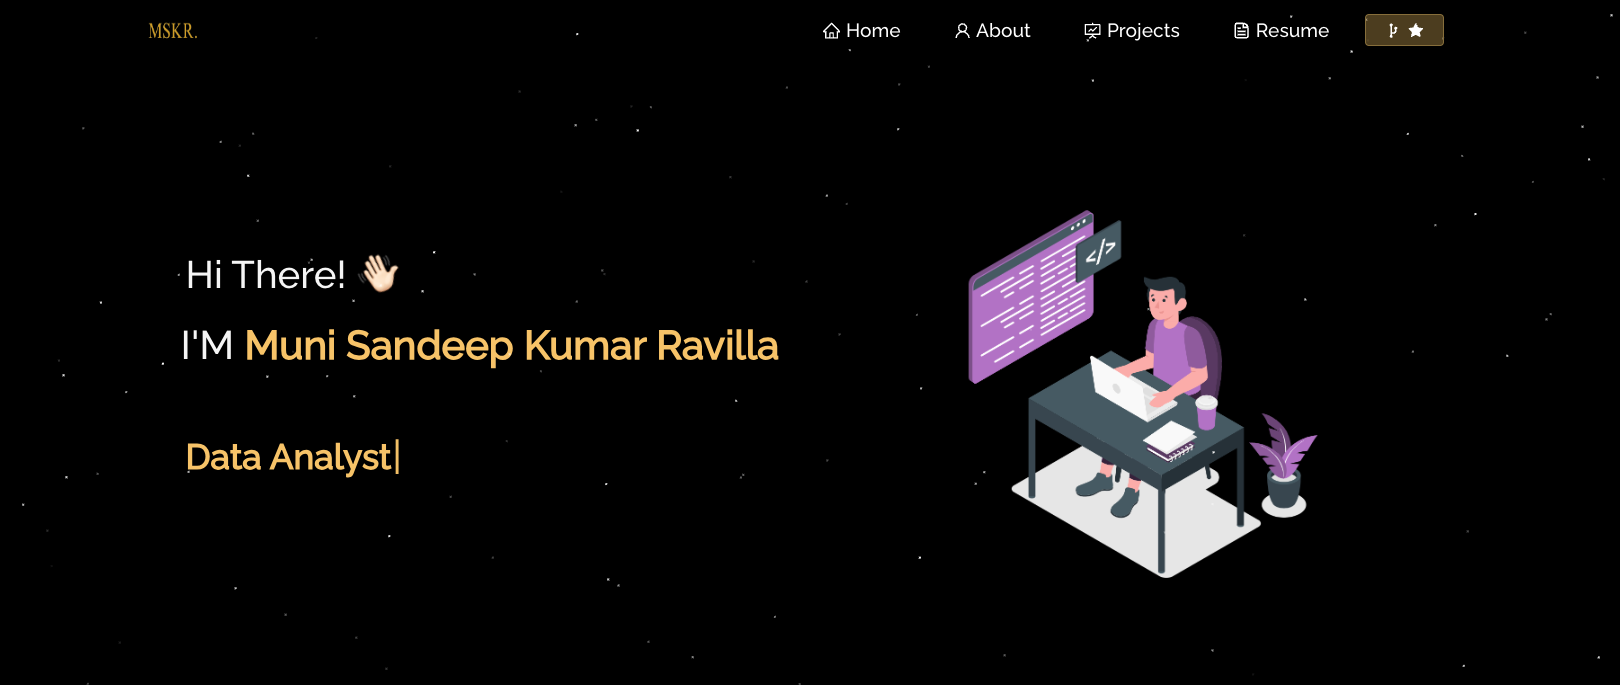
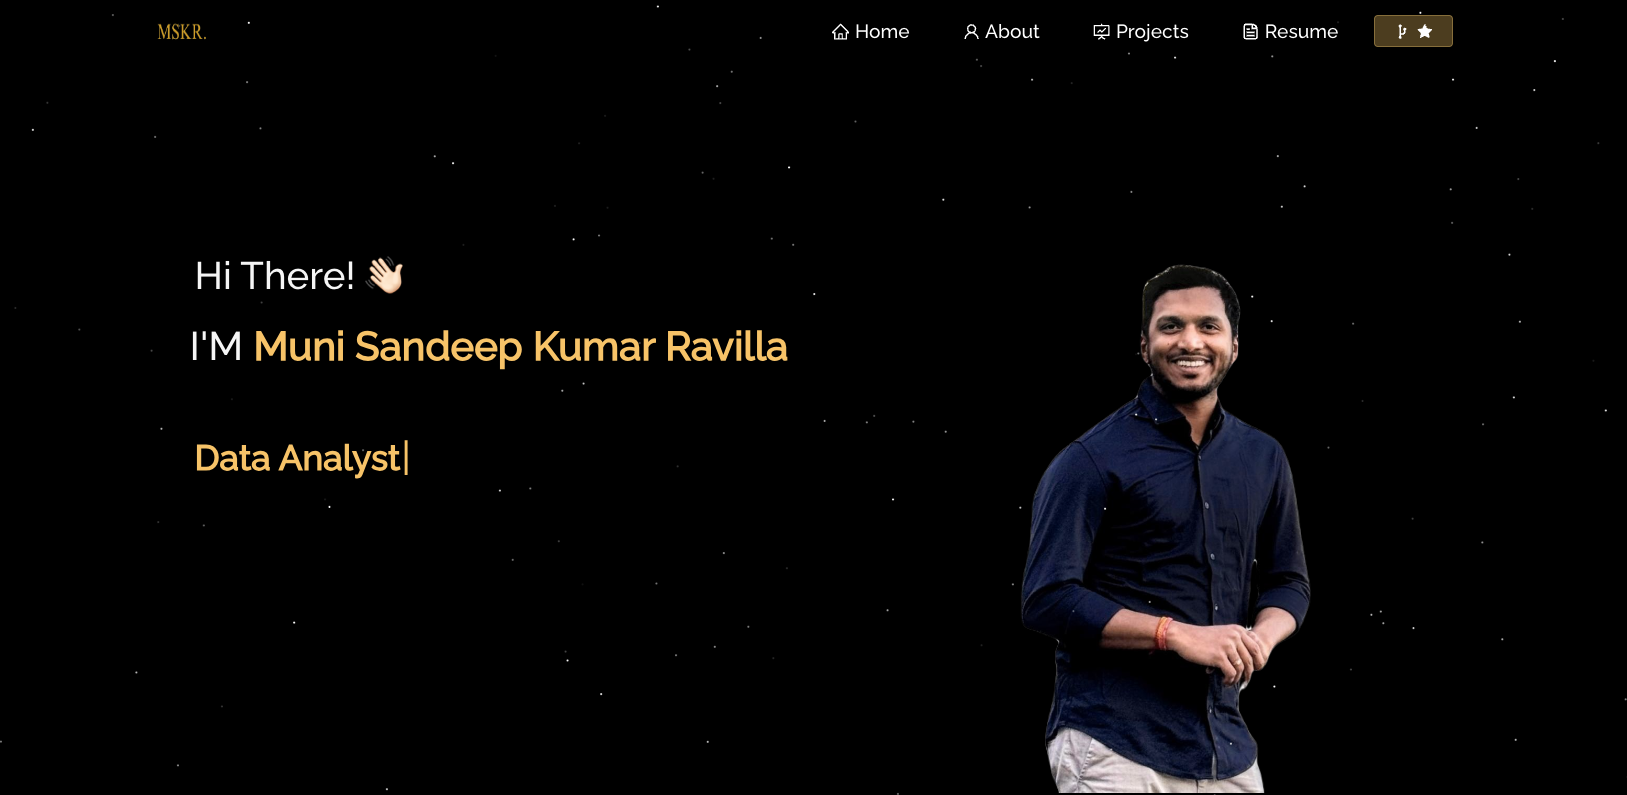
Photo changes

diff --git a/src/components/Home/Home.js b/src/components/Home/Home.js
@@ -1,7 +1,7 @@
 import React from "react";
 import { Container, Row, Col } from "react-bootstrap";
-import homeLogo from "../../Assets/home-main.svg";
-// import homeLogo from "../../Assets/Sandeep.png";
+// import homeLogo from "../../Assets/home-main.svg";
+import homeLogo from "../../Assets/Profile.png";
 import Particle from "../Particle";
 import Home2 from "./Home2";
 import Type from "./Type";
@@ -38,7 +38,7 @@ function Home() {
                 src={homeLogo}
                 alt="home pic"
                 className="img-fluid"
-                style={{ maxHeight: "450px" }}
+                style={{ maxHeight: "1000px",  marginTop: -50  }}
               />
             </Col>
 

diff --git a/src/components/About/About.js b/src/components/About/About.js
@@ -5,7 +5,7 @@ import Particle from "../Particle";
 import Techstack from "./Techstack";
 import Aboutcard from "./AboutCard";
 import laptopImg from "../../Assets/about.png";
-import Toolstack from "./Toolstack";
+// import Toolstack from "./Toolstack";
 
 function About() {
   return (
@@ -43,7 +43,7 @@ function About() {
         <h1 className="project-heading">
           <strong className="purple">Tools</strong> I use
         </h1>
-        <Toolstack />
+        {/* <Toolstack /> */}
 
         {/* <Github /> */}
       </Container>

diff --git a/public/index.html b/public/index.html
@@ -18,7 +18,7 @@
     content="https://raw.githubusercontent.com/muniravilla/Portfolio/master/Images/readme-img.png?">
 
   <!-- Facebook Meta Tags -->
-  <meta property="og:url" content="https://munisandeepkumarravilla.vercel.app">
+  <meta property="og:url" content="https://muniravilla.me">
   <meta property="og:type" content="website">
   <meta property="og:title" content="Sandeep | Portfolio">
   <meta property="og:description" content="Personal website">
